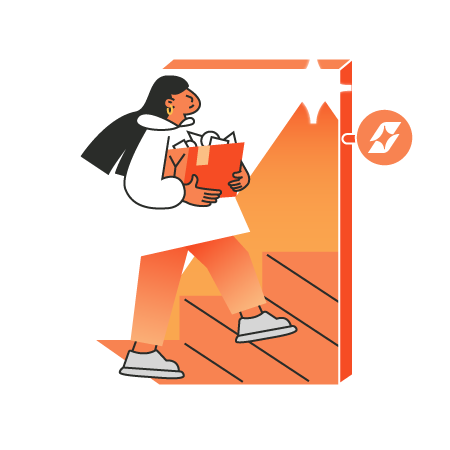
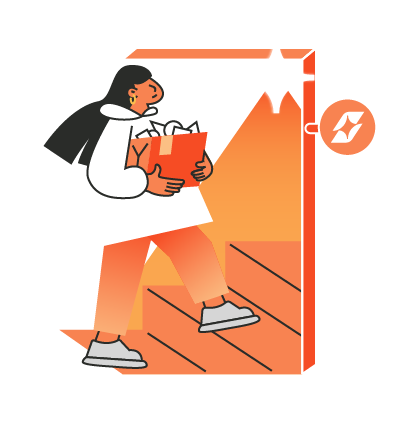
revise

Changed region(s): [[0.0889, 0.0911, 0.9481, 0.8808]]

diff --git a/src/components/about/Main.vue b/src/components/about/Main.vue
@@ -28,8 +28,10 @@
         <div class="pic-content-1 col-md-6 col-12">
           <img src="@/assets/images/shape.png" class="shape" />
           <img src="@/assets/images/star1.png" class="icon-2" />
-          <img src="@/assets/images/about-color-bc-2.png" class="w-100" />
-          <img src="@/assets/images/about-pic2.png" class="pic-2" />
+          <div class="about-pic-2">
+            <img src="@/assets/images/about-color-bc-2.png" class="w-100" />
+            <img src="@/assets/images/about-pic2.png" class="pic-2" />
+          </div>
         </div>
         <div class="col-md-6 col-12 block-text">
           <h4 class="color-1 lh-24">
@@ -108,7 +110,7 @@
       </div>
     </div>
   </div>
-  <!-- <div class="about-founder">
+  <div class="about-founder">
     <h2 class="title">創辦人</h2>
     <div class="container">
       <Swiper
@@ -137,7 +139,7 @@
       </Swiper>
       <img src="@/assets/images/star2.png" class="bc-shape" />
     </div>
-  </div> -->
+  </div>
 
   <SharedParner :count="30" class="mt-5" />
 </template>
@@ -223,9 +225,12 @@ const people = [
     position: relative;
     img {
       position: absolute;
-      top: 50%;
-      transform: translate(-50%, -50%);
-      left: 50%;
+      bottom: 50%;
+      transform: translate(-50%, 50%);
+      left: 43%;
+      @media (max-width: 576px) {
+        left: 50%;
+      }
     }
   }
 
@@ -279,6 +284,16 @@ const people = [
     left: -20% !important;
   }
 
+  .about-pic-2 {
+    width: 600px;
+    height: 500px;
+    position: relative;
+    @media (max-width: 576px) {
+      width: 100%;
+      height: 100%;
+    }
+  }
+
   .pic {
     &-1 {
       width: 82%;
@@ -287,10 +302,13 @@ const people = [
     }
 
     &-2 {
-      top: 35% !important;
-      left: 38% !important;
+      bottom: 63% !important;
+      left: 33% !important;
       width: 73%;
       border-radius: 50px;
+      @media (max-width: 576px) {
+        left: 40% !important;
+      }
     }
   }
 
@@ -391,12 +409,7 @@ const people = [
       z-index: 2;
     }
 
-    .star-box:hover {
-      transform: translateY(-22px) scale(1.02);
-      box-shadow: 0 14px 28px rgba(0, 0, 0, 0.16);
-      z-index: 6;
-    }
-
+    .star-box:hover,
     .star-box.active {
       background: linear-gradient(325.61deg, #ff6634 48.16%, #ff9966 92.68%);
       box-shadow: 4px 16px 8px rgba(0, 0, 0, 0.1),
@@ -406,10 +419,10 @@ const people = [
       color: #fff;
       transform: translateY(-28px) scale(1.04) !important;
       z-index: 7;
-    }
-    .star-box.active .letter,
-    .star-box.active p {
-      color: #fff;
+      .letter,
+      p {
+        color: #fff;
+      }
     }
 
     @media (max-width: 767px) {
@@ -451,7 +464,7 @@ const people = [
   margin-top: -60px;
   margin-bottom: -230px;
   position: relative;
-  z-index: 2;
+  z-index: 0;
   @media (max-width: 576px) {
     margin-top: 0;
     margin-bottom: 0;
@@ -631,7 +644,7 @@ const people = [
   min-height: 80vh;
   align-content: center;
   position: relative;
-  z-index: 1;
+  z-index: -1;
   @media (max-width: 576px) {
     min-height: 100vh;
   }
@@ -654,7 +667,7 @@ const people = [
 
   .founder-swiper {
     width: 100%;
-    padding: 8px 56px;
+    padding: 20px 10px;
     @media (max-width: 576px) {
       padding: 0;
     }

diff --git a/src/components/brand/Swiper.vue b/src/components/brand/Swiper.vue
@@ -3,9 +3,9 @@
     :modules="[Navigation]"
     :space-between="10"
     :centered-slides="true"
-    :loop="true"
+    :loop="banners.length > 1"
     :initial-slide="0"
-    navigation
+    :navigation="banners.length > 1"
     class="banner-swiper"
     @slideChange="onSlideChange"
     :breakpoints="{

diff --git a/src/components/star/Swiper.vue b/src/components/star/Swiper.vue
@@ -3,9 +3,9 @@
     :modules="[Navigation]"
     :space-between="10"
     :centered-slides="true"
-    :loop="true"
+    :loop="banners.length > 1"
     :initial-slide="0"
-    navigation
+    :navigation="banners.length > 1"
     class="banner-swiper"
     @slideChange="onSlideChange"
     :breakpoints="{

diff --git a/src/components/home/Main.vue b/src/components/home/Main.vue
@@ -618,7 +618,7 @@ function onSlideChange(swiper) {
   }
   &-tooltip {
     margin-top: -1rem;
-    padding: 25px 8px;
+    padding: 30px 8px 20px 8px;
     width: 250px;
     border-radius: 20px;
     position: relative;

diff --git a/src/components/home/Icon.vue b/src/components/home/Icon.vue
@@ -43,6 +43,7 @@ defineProps({
       backdrop-filter: blur(2px);
       padding: 20px;
       gap: 10px;
+      text-align: start;
     }
     img {
       @media (max-width: 767px) {

diff --git a/src/components/brand/Main.vue b/src/components/brand/Main.vue
@@ -155,6 +155,7 @@ const sections = [
   }
   &-bc {
     width: 98%;
+    height: 152vh;
     @media (max-width: 576px) {
       height: 140vh;
       object-fit: cover;
